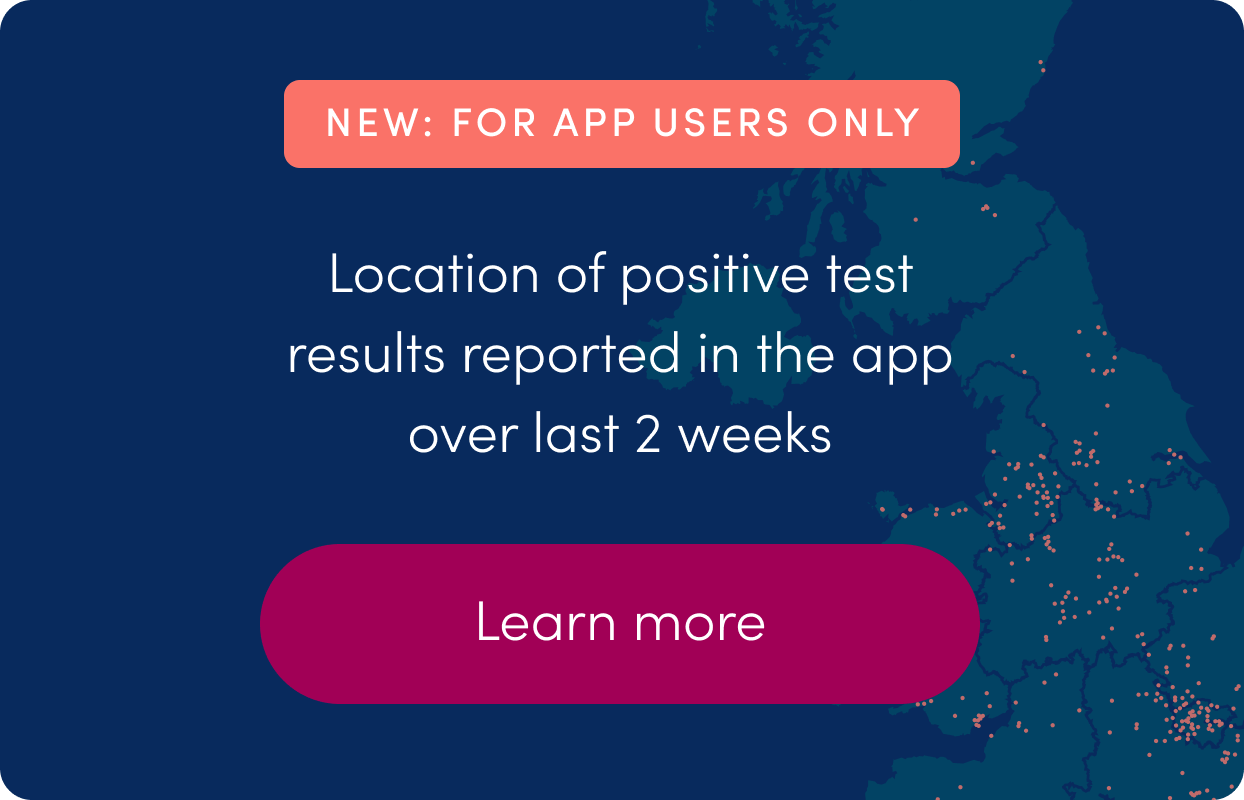
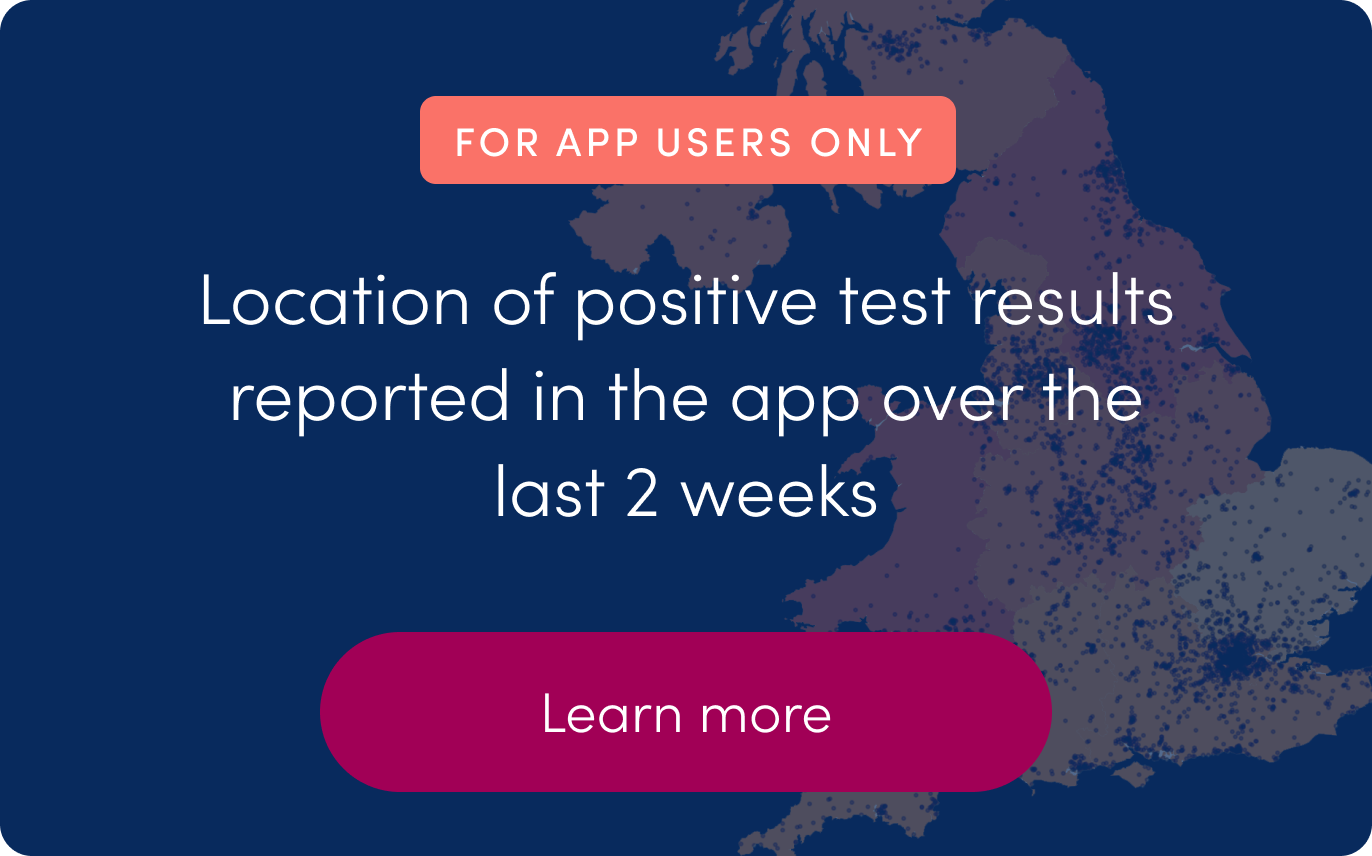
Asset Update (#991)
* Remove webinar from homepage

* Replace data module

* Rotate blog posts,Tim's video and webinar recording

diff --git a/src/features/thank-you/ThankYouUKScreen.tsx b/src/features/thank-you/ThankYouUKScreen.tsx
@@ -3,7 +3,7 @@ import { StackNavigationProp } from '@react-navigation/stack';
 import React, { Component } from 'react';
 import { SafeAreaView, ScrollView, StyleSheet, View } from 'react-native';
 
-import { blog023, blog024, dataPage003, notificationReminders, timUpdate021 } from '@assets';
+import { blog025, dataPage003, notificationReminders, timUpdate022, webinar_dec_09 } from '@assets';
 import { colors } from '@theme';
 import { AppRating, shouldAskForRating } from '@covid/components/AppRating';
 import { ExternalCallout } from '@covid/components/ExternalCallout';
@@ -79,25 +79,25 @@ export default class ThankYouUKScreen extends Component<RenderProps, State> {
               />
 
               <ExternalCallout
-                link="https://covid.joinzoe.com/post/vitamins-reduce-covid-risk?utm_source=App"
-                calloutID="blog_023"
-                imageSource={blog023}
+                link="https://covid.joinzoe.com/post/covid-asymptomatic-classic-symptoms?utm_source=App"
+                calloutID="blog_025"
+                imageSource={blog025}
                 aspectRatio={1.555}
                 screenName={this.props.route.name}
               />
 
               <ExternalCallout
-                link="https://covid.joinzoe.com/post/covid-vaccines-expert-questions?utm_source=App"
-                calloutID="blog_024"
-                imageSource={blog024}
-                aspectRatio={1.555}
+                link="https://www.youtube.com/watch?v=RFucRBhp9DU&feature=youtu.be"
+                calloutID="webinar_dec_09"
+                imageSource={webinar_dec_09}
+                aspectRatio={1.21}
                 screenName={this.props.route.name}
               />
 
               <ExternalCallout
-                link="https://www.youtube.com/watch?v=AGH8nInkA14"
-                calloutID="tim_update_021"
-                imageSource={timUpdate021}
+                link="https://www.youtube.com/watch?v=XJBPiGwItPE&feature=youtu.be"
+                calloutID="tim_update_022"
+                imageSource={timUpdate022}
                 aspectRatio={1.21}
                 screenName={this.props.route.name}
               />

diff --git a/assets/index.ts b/assets/index.ts
@@ -66,17 +66,16 @@ export const NUMBER_OF_PROFILE_AVATARS = 10;
 export const notificationReminders = require('./thank-you-modules/notification_reminders.png');
 export const notificationRemindersSE = require('./thank-you-modules/notification_reminders_se.png');
 export const dataPage003 = require('./thank-you-modules/data_page_003.png');
-export const blog023 = require('./thank-you-modules/blog_023.png');
-export const blog024 = require('./thank-you-modules/blog_024.png');
+export const blog025 = require('./thank-you-modules/blog_025.png');
 export const incidence011 = require('./thank-you-modules/incidence_011.png');
-export const timUpdate021 = require('./thank-you-modules/tim_update_021.png');
+export const timUpdate022 = require('./thank-you-modules/tim_update_022.png');
 export const surveyInvite = require('./thank-you-modules/surveyInvite.png');
 export const studyInvite = require('./thank-you-modules/studyInvite.png');
 export const shareApp = require('./thank-you-modules/shareApp.png');
 export const shareAppV2 = require('./thank-you-modules/shareApp_v2.png');
 export const shareAppV3 = require('./thank-you-modules/shareApp_v3.png');
 export const donate = require('./thank-you-modules/donate.png');
-export const webinarInvite = require('./thank-you-modules/webinar_invite.png');
+export const webinar_dec_09 = require('./thank-you-modules/webinar_dec_09.png');
 
 export const studyIntro = require('./backgrounds/study_intro.png');
 export const cardBackground1 = require('./backgrounds/cardBackground1.png');

diff --git a/src/features/dashboard/DashboardScreen.tsx b/src/features/dashboard/DashboardScreen.tsx
@@ -13,7 +13,7 @@ import { ScreenParamList } from '@covid/features/ScreenParamList';
 import appCoordinator from '@covid/features/AppCoordinator';
 import { ExternalCallout } from '@covid/components/ExternalCallout';
 import { share } from '@covid/components/Cards/BaseShareApp';
-import { shareAppV3, webinarInvite } from '@assets';
+import { shareAppV3 } from '@assets';
 import i18n from '@covid/locale/i18n';
 import { openWebLink } from '@covid/utils/links';
 import { useAppDispatch } from '@covid/core/state/store';
@@ -91,14 +91,6 @@ export const DashboardScreen: React.FC<Props> = ({ navigation, route }) => {
       compactHeader={<CompactHeader reportOnPress={onReport} />}
       expandedHeader={<Header reportOnPress={onReport} />}>
       <View style={styles.calloutContainer}>
-        <ExternalCallout
-          link="https://us02web.zoom.us/webinar/register/4716069965500/WN_0FyYubk1SMGe58xH2Ee9cw"
-          calloutID="webinar_invite_dec_09"
-          imageSource={webinarInvite}
-          aspectRatio={1.079}
-          screenName={route.name}
-        />
-
         {hasNetworkData && (
           <View
             style={{
@@ -113,7 +105,6 @@ export const DashboardScreen: React.FC<Props> = ({ navigation, route }) => {
         <EstimatedCasesMapCard />
 
         <UKEstimatedCaseCard onPress={onMoreDetails} />
-
 
         <ExternalCallout
           calloutID="sharev3"
